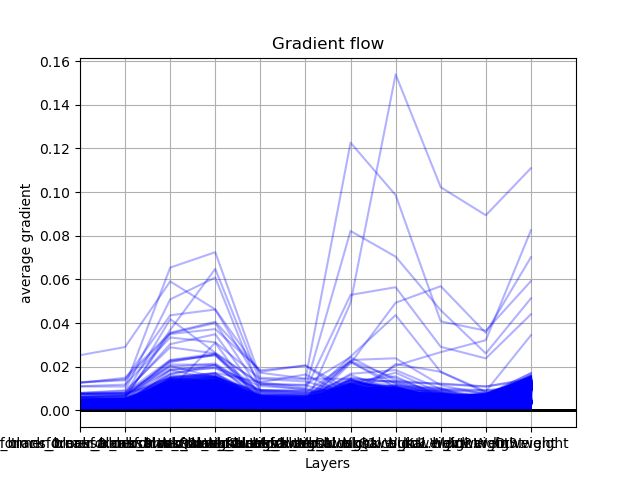
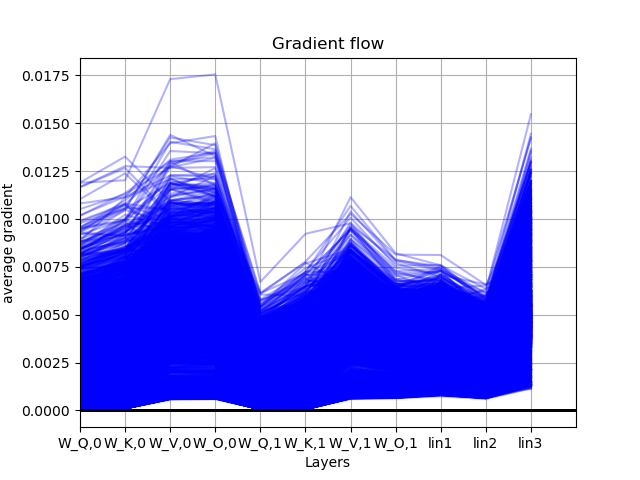
Updated gradient flow visualization

diff --git a/train.py b/train.py
@@ -25,7 +25,11 @@ def plot_grad_flow(named_parameters):
 
     for n, p in named_parameters:
         if (p.requires_grad) and ("bias" not in n):
-            layers.append(n)
+            # If this is a transformer block
+            if n.split(".")[-3] == "causal_block":
+                layers.append(n.split(".")[-2] + "," + n.split(".")[0][-1])
+            else:
+                layers.append(n.split(".")[-2])
             if p.grad is not None:
                 ave_grads.append(p.grad.abs().mean().cpu())
             else:
@@ -40,14 +44,14 @@ def plot_grad_flow(named_parameters):
     plt.title("Gradient flow")
     plt.grid(True)
 
-epochs = 50000
+epochs = 7500
 
 K = 512
 L = 32
 S = 10000
 N = 8
 Nmax = 32
-eps = 0.1
+eps = 0
 
 D = 63
 P = 65
@@ -57,9 +61,9 @@ alpha = 0
 P = 1.0/(np.arange(1,K+1)**alpha)
 P /= np.sum(P)
 
-B = 2
+B = 1
 p_B = 0.25
-p_C = 0.75
+p_C = 0.25
 
 batchsize = 128
 no_repeats = False
@@ -88,7 +92,9 @@ def accuracy(model, inputs, labels, flip_labels=False):
     correct = (label_preds_inds == label_inds).float()
     return correct.mean().item()
 
-model = Transformer(L, mlp=Readout(L)).to(device)
+mlp_readout = Readout(L)
+# model = Transformer(L, mlp=mlp_readout).to(device)
+model = Transformer(L).to(device)
 model.train()
 
 optim = optim.SGD(model.parameters(), lr=1e-1, weight_decay=1e-6)
